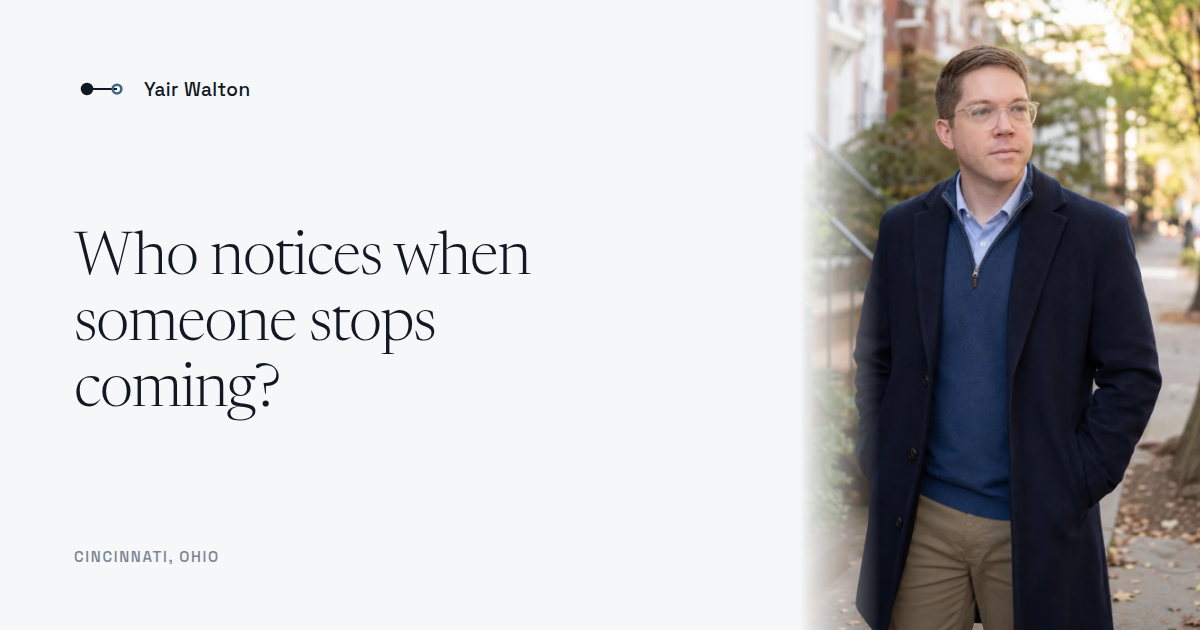
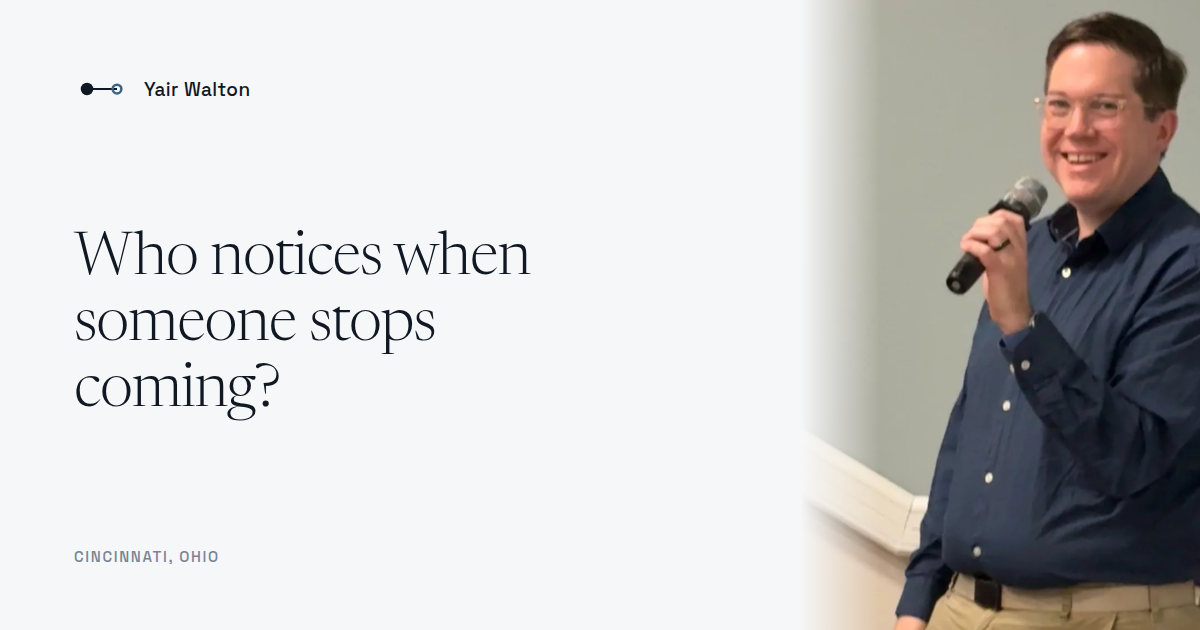
Replace generated portraits with real photographs
Both images on the page are now actual photos:

- Hero: cropped from a speaking photo, 920x1150 plus a 640w variant
  for narrow screens.
- Bio: cropped from a podium photo, with the branded panel behind the
  lectern cropped out.

Removes the earlier portraits, which were derived from generated
frames rather than from photographs, along with the full-size sources.
Updates the Person image in the structured data and regenerates the
link preview card off the new hero.

Changed region(s): [[0.6475, 0.0, 1.0, 1.0]]

diff --git a/index.html b/index.html
@@ -52,9 +52,9 @@
       "image": {
         "@type": "ImageObject",
         "@id": "https://yairwalton.com/#portrait",
-        "url": "https://yairwalton.com/assets/portrait-street-1600.webp",
-        "width": 1600,
-        "height": 2000,
+        "url": "https://yairwalton.com/assets/portrait-speaking-920.webp",
+        "width": 920,
+        "height": 1150,
         "caption": "Yair Walton"
       },
       "description": "Yair Walton builds things that do not exist yet, weaving together the people, systems, and networks that have to hold them up.",
@@ -183,11 +183,11 @@
       </div>
       <figure class="portrait">
         <img
-          src="assets/portrait-street-1600.webp"
-          srcset="assets/portrait-street-800.webp 800w, assets/portrait-street-1600.webp 1600w"
+          src="assets/portrait-speaking-920.webp"
+          srcset="assets/portrait-speaking-640.webp 640w, assets/portrait-speaking-920.webp 920w"
           sizes="(max-width: 860px) 78vw, 34vw"
-          alt="Yair Walton, standing on a tree lined street in Cincinnati"
-          width="1600" height="2000"
+          alt="Yair Walton speaking to a room, holding a microphone"
+          width="920" height="1150"
           fetchpriority="high">
       </figure>
     </div>
@@ -231,8 +231,8 @@
           </p>
         </div>
         <figure class="bio-shot">
-          <img src="assets/portrait-cafe-1000.webp"
-               alt="Yair Walton seated in a cafe, looking toward a window"
+          <img src="assets/portrait-podium-1000.webp"
+               alt="Yair Walton speaking at a podium"
                width="1000" height="1250" loading="lazy">
         </figure>
       </div>

diff --git a/tools/share-card.html b/tools/share-card.html
@@ -53,7 +53,7 @@
       <p class="foot">Cincinnati, Ohio</p>
     </div>
     <div class="right">
-      <img src="../assets/portrait-street-1600.webp" alt="">
+      <img src="../assets/portrait-speaking-920.webp" alt="">
     </div>
   </div>
 </body>
